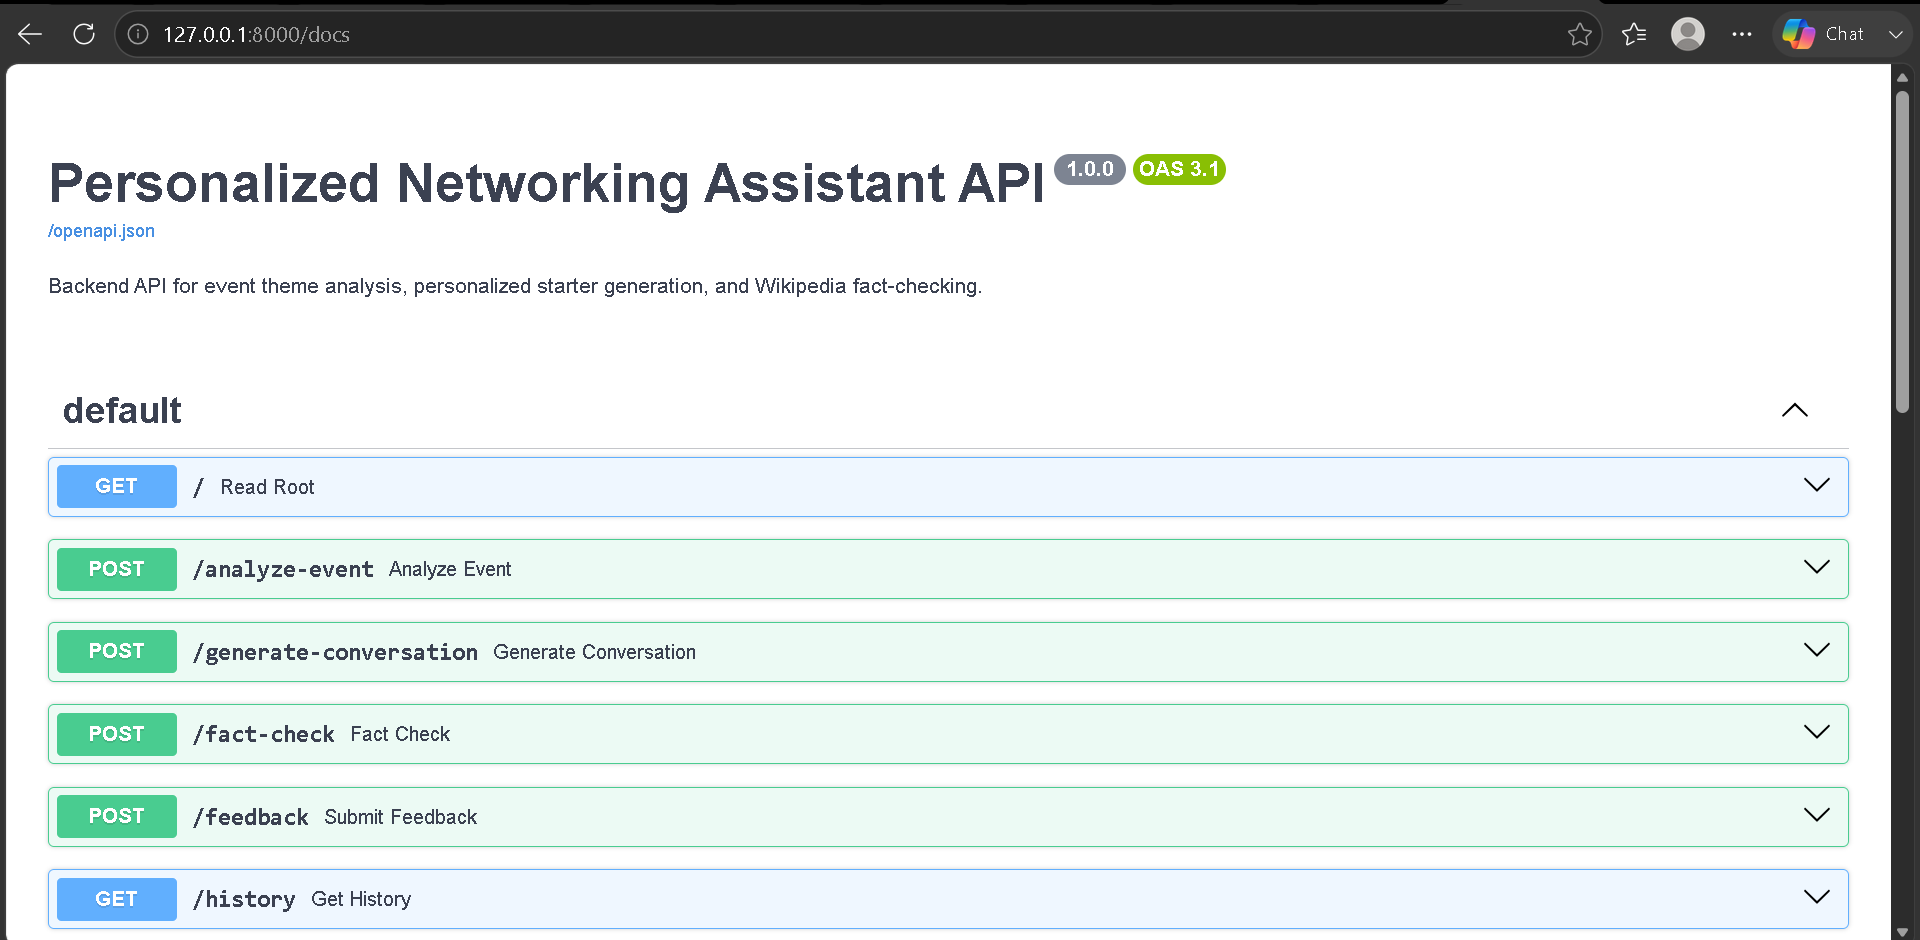
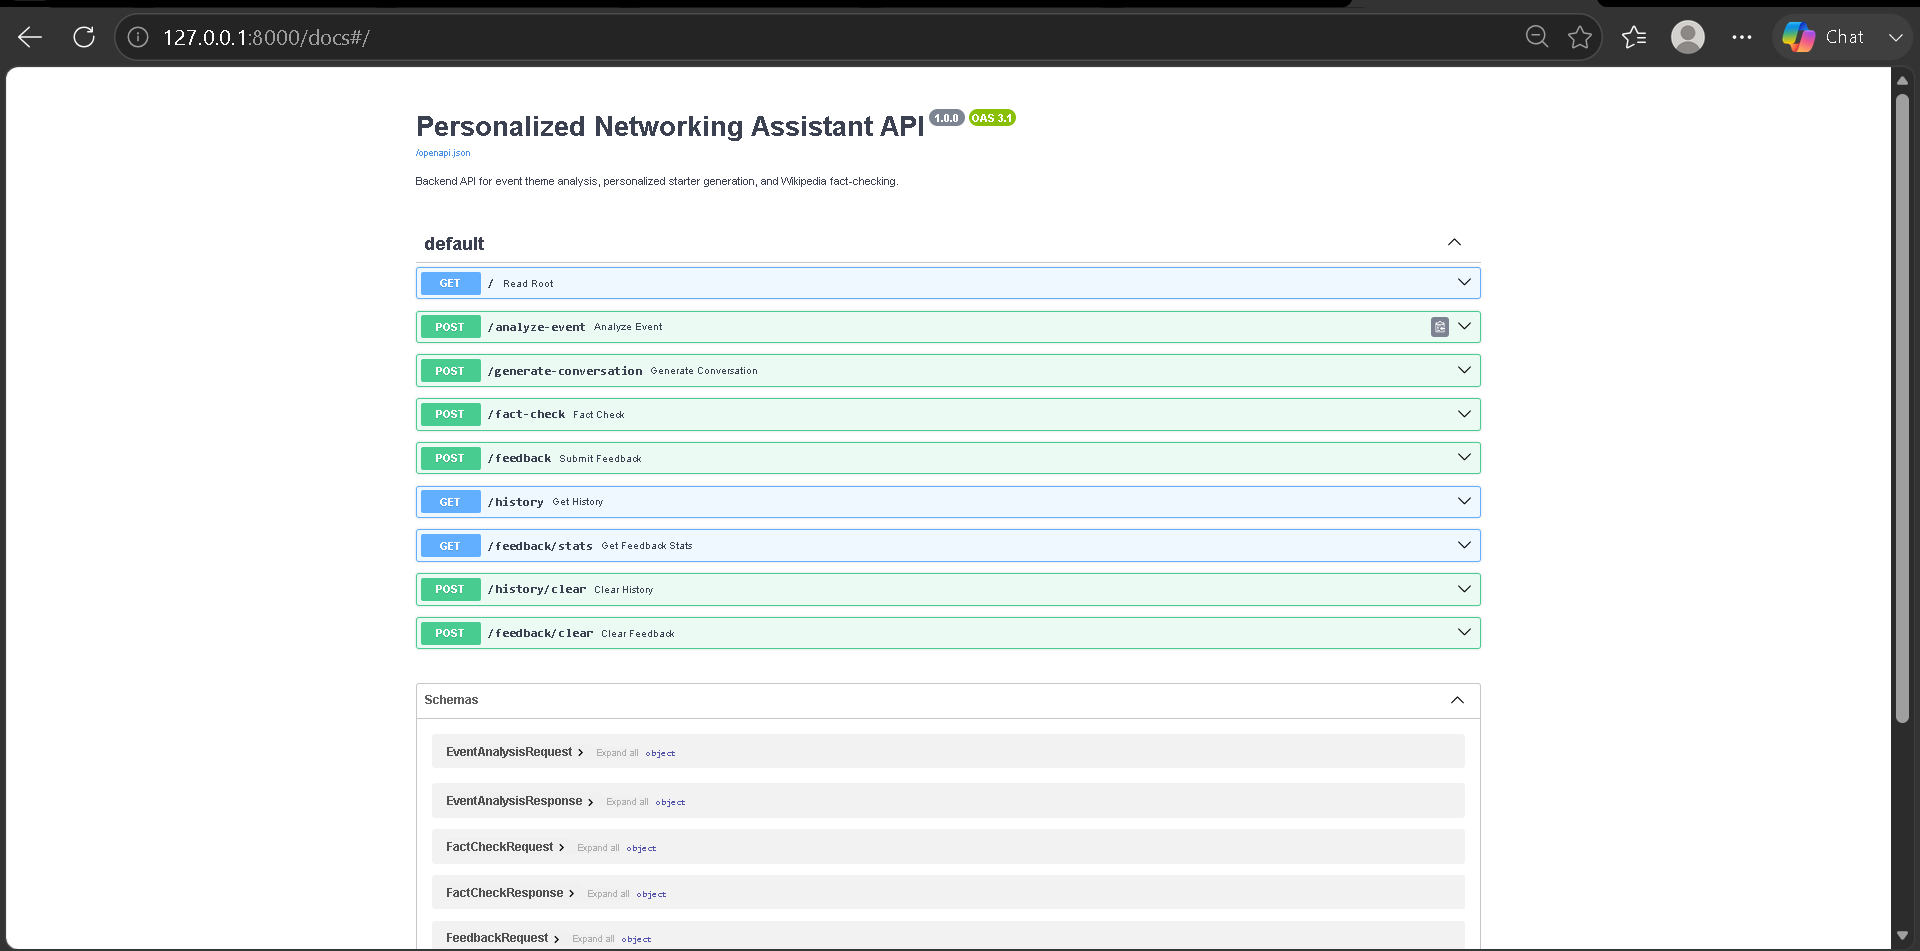
Update README,final fixs

diff --git a/README.md b/README.md
@@ -41,13 +41,14 @@ Personalized_Networking_Assistant/
 │   └── main.py                # FastAPI endpoints (/generate-conversation, /fact-check, etc.)
 ├── frontend/
 │   ├── app.py                 # Streamlit frontend styled with premium CSS
-├── images/                    # Application Screenshots and UI images
+├── images/
 │   ├── Backend Terminal.png
 │   ├── Conversation Generator.png
 │   ├── Fact Checker.png
 │   ├── History And Feedback.png
 │   ├── Home Page.png
-│   └── Swagger UI.png
+│   ├── Swagger UI.png
+│   └── Test Results.png
 ├── tests/
 │   ├── __init__.py
 │   └── test_backend.py        # Automated Pytest suite with mocked transformer pipelines
@@ -170,3 +171,6 @@ In `backend/fact_checker.py`, we fetch the top summary paragraph of a Wikipedia 
 
 ### Backend Terminal
 ![Backend Terminal](images/Backend%20Terminal%20.png)
+
+### Test Results
+![Test Results](images/Test%20Results.png)